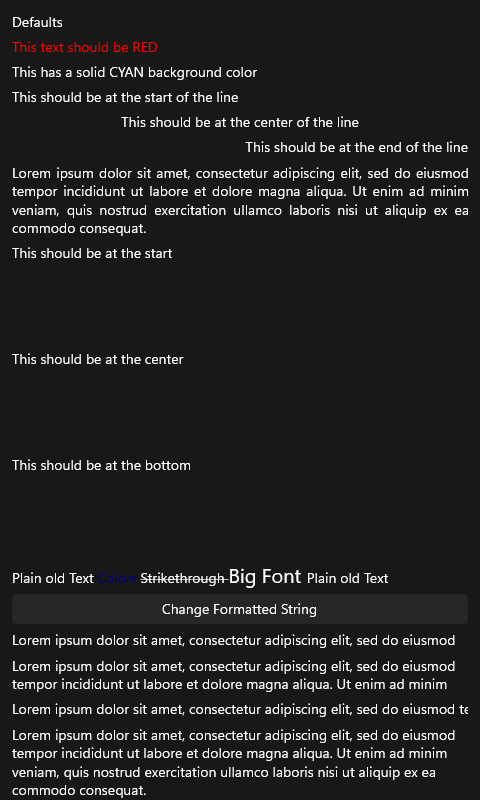
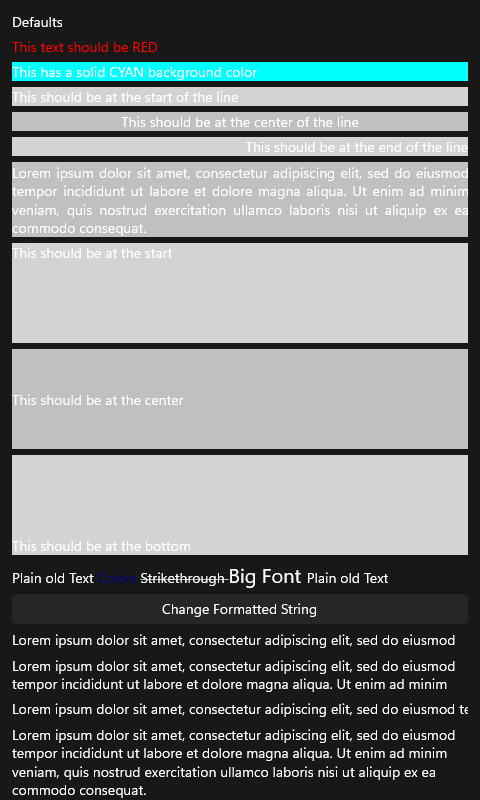
fix(windows): Label BackgroundColor + VerticalTextAlignment — wrap the TextBlock in a Border
A WinUI TextBlock has no Background, so a Label's BackgroundColor never painted
(the label page's cyan bar, the gray alignment bars, the paragraph background,
and the fixed-height vertical-alignment boxes were all missing), and
VerticalTextAlignment had no fixed-height slot to align within. MAUI paints the
label background through a WrapperView container; the port now does the same,
per-label: `native` becomes a Border whose Child is the TextBlock (stored in the
new `text_block` slot every text map targets). update_background paints the
Border (solid + gradient via Paint.ToPlatform); the container's arranged height
lets the content-sized TextBlock position by its VerticalAlignment, so the
start/center/bottom boxes now render correctly. label cpp 42% -> 95% (minor,
both themes). Remaining: the FormattedString per-run background highlight (the
"Colors" cyan box) still needs a TextHighlighter — deferred.

diff --git a/port/cpp/src/platform/windows/label_handler.cpp b/port/cpp/src/platform/windows/label_handler.cpp
@@ -71,9 +71,16 @@ namespace
     // XAML-less test host does not have (header deviation).
     constexpr double k_default_font_size = 14.0;
 
+    // The inner TextBlock every text map targets — `native` is the Border CONTAINER (WrapperView
+    // stand-in) that carries the view background, so the text lives in `text_block`.
     [[nodiscard]] muxc::TextBlock text_block_of(const maui::core::label_platform& platform)
     {
-        return wnative::borrow<muxc::TextBlock>(platform.native);
+        return wnative::borrow<muxc::TextBlock>(platform.text_block);
+    }
+
+    [[nodiscard]] muxc::Border border_of(const maui::core::label_platform& platform)
+    {
+        return wnative::borrow<muxc::Border>(platform.native);
     }
 
     // FontExtensions.ToFontStyle: Slant → FontStyle (Italic / Oblique / Normal).
@@ -201,7 +208,8 @@ namespace maui::core
     // doctrine; the apple twin CFReleases its NSTextField here).
     label_platform::~label_platform()
     {
-        wnative::release(native);
+        wnative::release(text_block); // the inner TextBlock's own ref (the Border also holds one via Child)
+        wnative::release(native);     // the Border container
     }
 
     // The generic-IView pushes (the shared view_mapper calls these through view_platform_base). Each
@@ -228,8 +236,27 @@ namespace maui::core
     void label_platform::update_automation_id(std::string_view value)
     {
         view_platform_base::update_automation_id(value);
-        // ViewExtensions.UpdateAutomationId: AutomationProperties.SetAutomationId.
+        // ViewExtensions.UpdateAutomationId: AutomationProperties.SetAutomationId (on the Border host).
         wnative::apply_automation_id(native, value);
+    }
+
+    void label_platform::update_background(const maui::graphics::paint* value)
+    {
+        view_platform_base::update_background(value); // keep the mirror live for the XAML-less suite
+        auto border = wnative::borrow<winrt::Microsoft::UI::Xaml::Controls::Border>(native);
+        if (border == nullptr)
+        {
+            return;
+        }
+        // LabelHandler.Windows.MapBackground → the WrapperView/ContainerView carries the brush; the
+        // port's Border container is that stand-in. A null paint clears back to transparent; solid and
+        // gradient paints ride the shared Paint.ToPlatform bridge.
+        if (value == nullptr)
+        {
+            border.ClearValue(winrt::Microsoft::UI::Xaml::Controls::Border::BackgroundProperty());
+            return;
+        }
+        border.Background(wnative::to_paint_brush(value));
     }
 
     std::unique_ptr<label_platform> label_handler::create_platform_view()
@@ -237,13 +264,23 @@ namespace maui::core
         auto platform = std::make_unique<label_platform>();
         try
         {
-            // LabelHandler.CreatePlatformView: new TextBlock().
+            // LabelHandler.CreatePlatformView: new TextBlock() — WRAPPED in a Border container (the port's
+            // WrapperView stand-in) so a Label BackgroundColor has a surface to paint on (a TextBlock has
+            // no Background) and VerticalTextAlignment has a fixed-height slot to align within. The child
+            // stretches to fill the Border, so horizontal/vertical text alignment position the text
+            // inside the arranged frame; the Border is transparent until update_background paints it.
             const muxc::TextBlock block;
-            platform->native = wnative::store(block); // released in ~label_platform
+            const muxc::Border border;
+            border.Child(block);
+            block.HorizontalAlignment(mux::HorizontalAlignment::Stretch);
+            block.VerticalAlignment(mux::VerticalAlignment::Top);
+            platform->text_block = wnative::store(block); // the inner TextBlock (freed in the dtor)
+            platform->native = wnative::store(border);    // the Border container (freed in the dtor)
         }
         catch (const winrt::hresult_error&)
         {
             platform->native = nullptr; // XAML-less degradation (header note)
+            platform->text_block = nullptr;
         }
         return platform;
     }

diff --git a/port/cpp/include/maui/core/label_handler.hpp b/port/cpp/include/maui/core/label_handler.hpp
@@ -164,14 +164,19 @@ namespace maui::core
         // when one exists (the android partial's dual-drive pattern). is_enabled is intentionally NOT
         // overridden: a TextBlock is not a Control, and C#'s ViewExtensions.UpdateIsEnabled
         // (`platformView as Control`) no-ops on it, so the base mirror is the faithful behavior.
-        // background keeps the base mirror too: a TextBlock has no Background property — C# paints a
-        // label background through the WrapperView container (LabelHandler.Windows.MapBackground →
-        // ContainerView), which this first cut defers alongside the container infra. transform /
-        // flow_direction / semantics / shadow / clip / input_transparent also keep the base mirrors
-        // (deferred — see the partial's header).
+        // transform / flow_direction / semantics / shadow / clip / input_transparent keep the base
+        // mirrors (deferred — see the partial's header).
+        //
+        // BACKGROUND is now painted: a TextBlock has no Background, so the port wraps it in a Border
+        // CONTAINER — the local stand-in for C#'s WrapperView (LabelHandler.Windows.MapBackground →
+        // ContainerView). `native` is the Border; `text_block` is the inner TextBlock every text map
+        // targets. The container carrying a fixed-height slot also lets VerticalTextAlignment finally
+        // take visual effect (the child aligns within the Border height).
         void update_visibility(maui::core::visibility value) override;
         void update_opacity(double value) override;
         void update_automation_id(std::string_view value) override;
+        void update_background(const maui::graphics::paint* value) override;
+        void* text_block = nullptr; // the inner Microsoft.UI.Xaml.Controls.TextBlock (owned; freed in the dtor)
 #endif
     };
 
